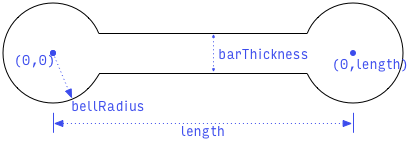
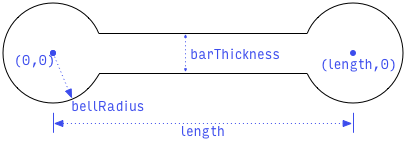
fix errors in answer

diff --git a/answer/answer.md b/answer/answer.md
@@ -26,7 +26,7 @@ To simplify the process of creating a path for this shape, let's draw it in a st
 
 ![givens in standard pose](standardGivens.png)
 
-We can create this shape as a path by making a circular arc centered at the origin, connected to another (mirror image) circular arc centered at `(0, length)`. To create these arcs, we need this `mysteryAngle`:
+We can create this shape as a path by making a circular arc centered at the origin, connected to another (mirror image) circular arc centered at `(length, 0)`. To create these arcs, we need this `mysteryAngle`:
 
 ![mystery angle](mysteryAngle.png)
 
@@ -274,9 +274,10 @@ First, let's look at `DragEndpoint` (an `NSView` subclass). `NSView` already con
 
 We want to be careful of two things:
 
-- We only want to accept a drag that is a connection attempts. We can figure out whether a drag is a connection attempt by checking whether the source is our custom drag source, `ConnectionDragController`.
+- We only want to accept a drag that is a connection attempt. We can figure out whether a drag is a connection attempt by checking whether the source is our custom drag source, `ConnectionDragController`.
 - We'll make `DragEndpoint` appear to be the drag source (visually only, not programmatically). We don't want to let the user connect an endpoint to itself, so we need to make sure the endpoint that is the source of the connection cannot also be used as the target of the connection. We'll do that using a `state` property that tracks whether this endpoint is idle, acting as the source, or acting as the target.
-- When the user finally releases the mouse button over a valid drop destination, the drag session makes it the destination's responsibility to “perform” the drag by sending it `performDragOperation(_:)`. The session doesn't tell the drag source where the drop finally happened. But we probably want to do the work of making the connection (in our data model) back in the source. Think about how it works in Xcode: when you control-drag from a button in `Main.storyboard` to `ViewController.swift` and create an action, the connection is not recorded in `ViewController.swift` where the drag ended; it's recorded in `Main.storyboard`, as part of the button's persistent data. So when the drag session tells the destination to “perform” the drag, we'll make our destination (`DragEndpoint`) pass itself back to a `connect(to:)` method on the drag source where the real work can happen.
+
+When the user finally releases the mouse button over a valid drop destination, the drag session makes it the destination's responsibility to “perform” the drag by sending it `performDragOperation(_:)`. The session doesn't tell the drag source where the drop finally happened. But we probably want to do the work of making the connection (in our data model) back in the source. Think about how it works in Xcode: when you control-drag from a button in `Main.storyboard` to `ViewController.swift` and create an action, the connection is not recorded in `ViewController.swift` where the drag ended; it's recorded in `Main.storyboard`, as part of the button's persistent data. So when the drag session tells the destination to “perform” the drag, we'll make our destination (`DragEndpoint`) pass itself back to a `connect(to:)` method on the drag source where the real work can happen.
 
 	class DragEndpoint: NSView {
 	
@@ -335,7 +336,8 @@ Now we can implement `ConnectionDragController` to act as the drag source and to
 - The session notifies the source when the drag actually starts, when it moves, and when it ends. We use those notifications to create and update the `LineOverlay`.
 - Since we're not providing any images as part of our `NSDraggingItem`, the session won't draw anything being dragged. This is good.
 - By default, if the drag ends outside of a valid destination, the session will animate… nothing… back to the start of the drag, before notifying the source that the drag has ended. During this animation, the line overlay hangs around, frozen. It looks broken. We tell the session not to animate back to the start to avoid this.
-- Since this is just a demo, the “work” we do to connect the endpoints in `connect(to:)` is just printing their descriptions. In a real app, you'd actually modify your data model.
+
+Since this is just a demo, the “work” we do to connect the endpoints in `connect(to:)` is just printing their descriptions. In a real app, you'd actually modify your data model.
  
 	class ConnectionDragController: NSObject, NSDraggingSource {
 	
